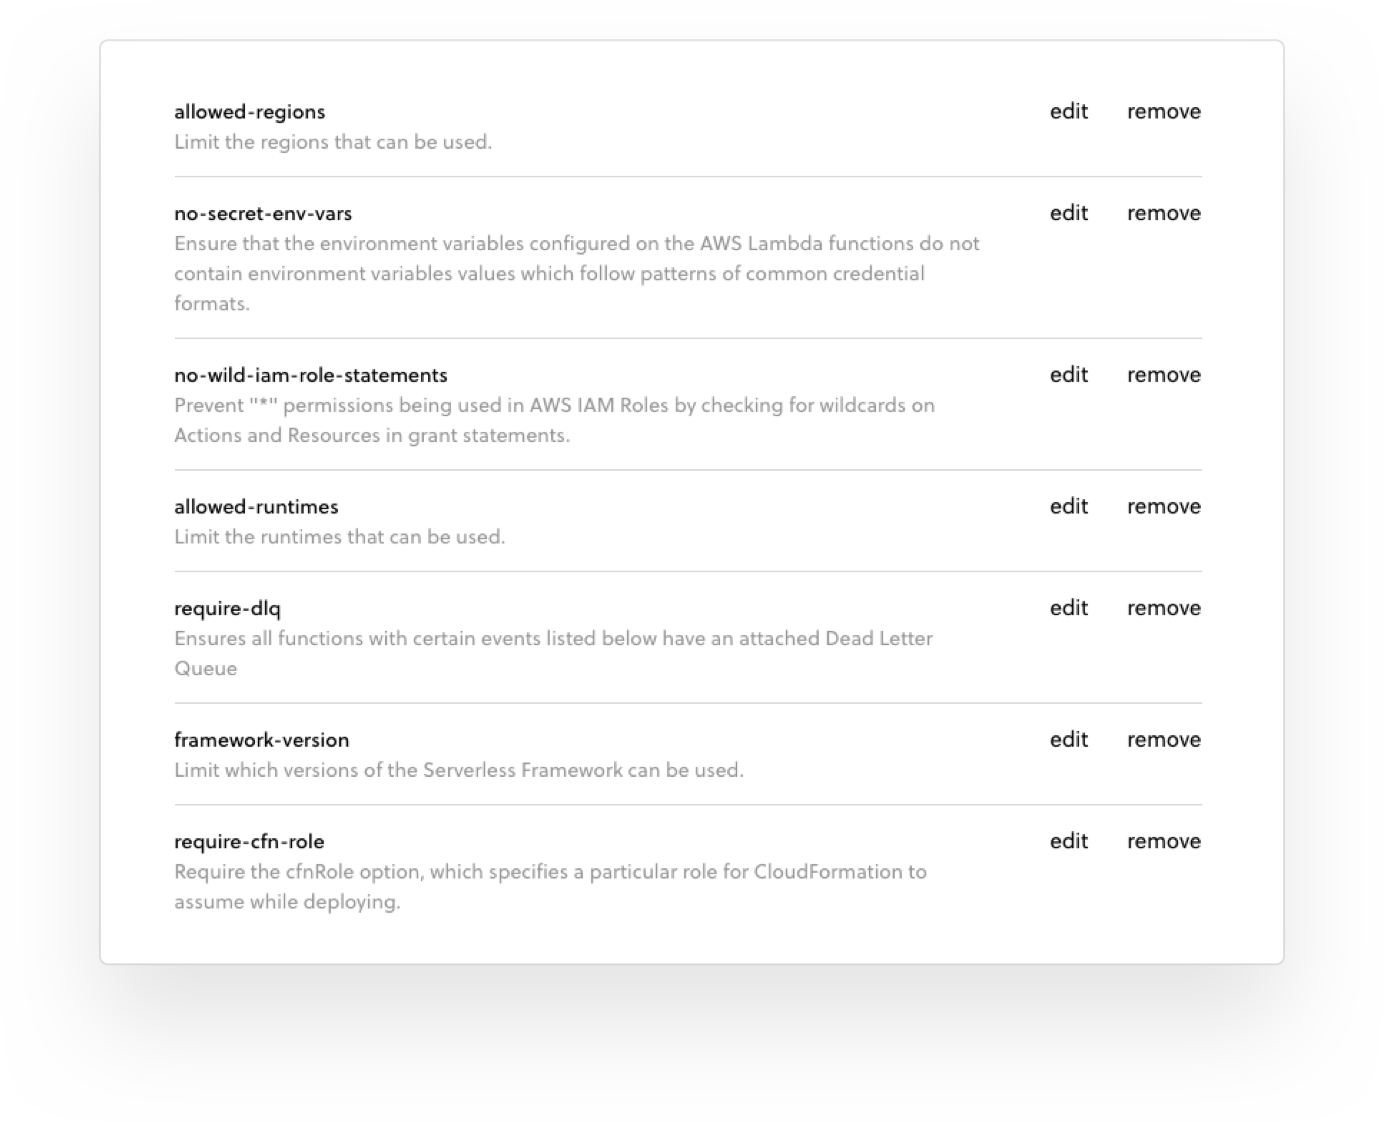
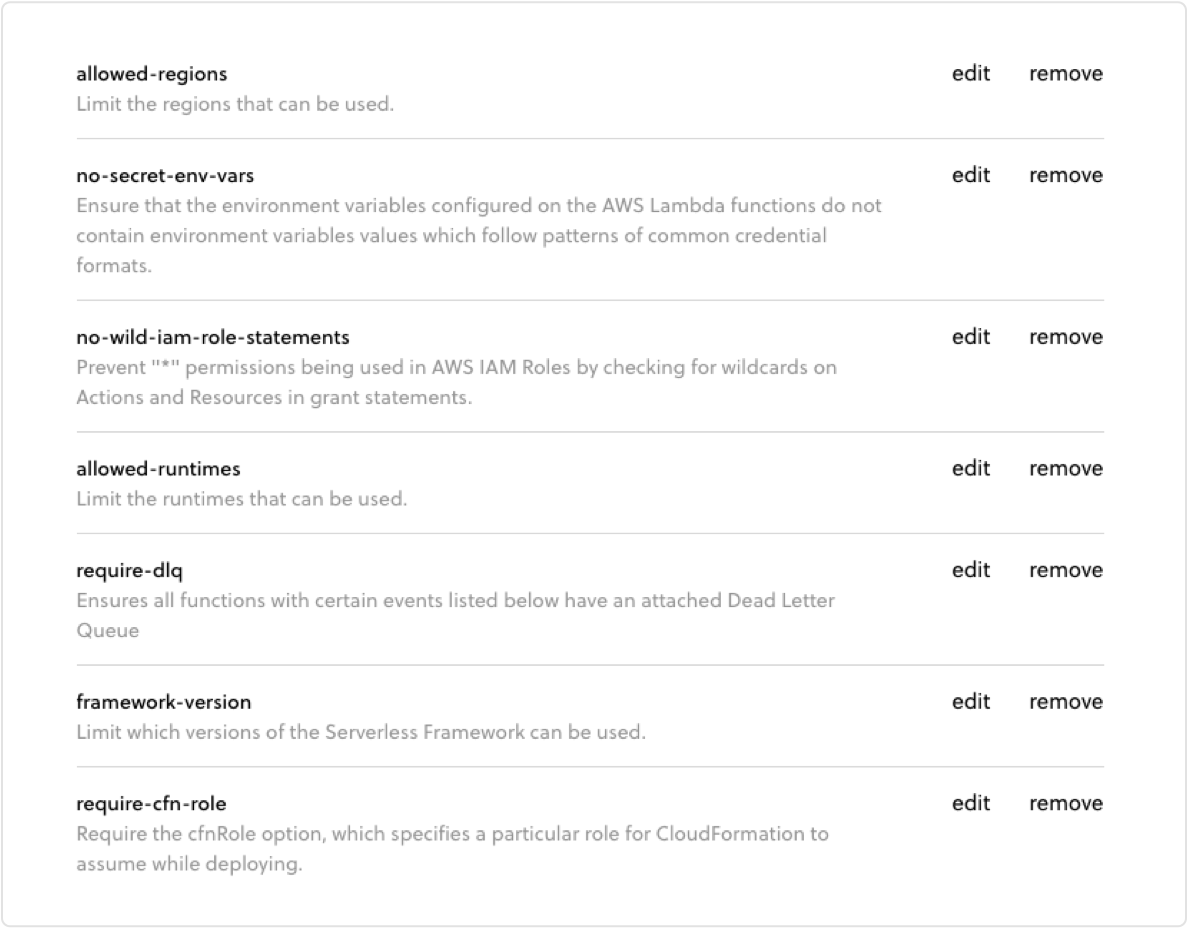
updated images and made mobile version of images full-width

diff --git a/src/components/pages/policies/IndustryStandard/index.js b/src/components/pages/policies/IndustryStandard/index.js
@@ -1,6 +1,6 @@
 import React from 'react'
 import { Flex } from 'serverless-design-system'
-import industryStandardImage from 'src/assets/images/pages/policies/industry-standard.jpg'
+import industryStandardImage from 'src/assets/images/pages/policies/industry-standard.png'
 import Content from './Content'
 import Image from '../ImageWithShadows'
 
@@ -13,7 +13,7 @@ const PoliciesIndustryStandard = props => (
     <Content />
     <Image
       src={industryStandardImage}
-      width={[300, 300, 336, 432, 500, 592]}
+      width={['100%', '100%', 336, 432, 500, 592]}
       height={[235, 235, 262, 285, 443, 463]}
     />
   </Flex>

diff --git a/src/components/pages/policies/CustomPolicies/index.js b/src/components/pages/policies/CustomPolicies/index.js
@@ -1,6 +1,6 @@
 import React from 'react'
 import { Flex } from 'serverless-design-system'
-import customPoliciesImage from 'src/assets/images/pages/policies/custom-policies.jpg'
+import customPoliciesImage from 'src/assets/images/pages/policies/custom-policies.png'
 import Content from './Content'
 import Image from '../ImageWithShadows'
 
@@ -13,7 +13,7 @@ const CustomPolicies = props => (
     <Content />
     <Image
       src={customPoliciesImage}
-      width={[300, 300, 336, 450, 520, 592]}
+      width={['100%', '100%', 336, 450, 520, 592]}
       height={[110, 110, 123, 170, 200, 217]}
     />
   </Flex>

diff --git a/src/components/pages/policies/Hero/Image.js b/src/components/pages/policies/Hero/Image.js
@@ -1,11 +1,11 @@
 import React from 'react'
 import { Background, Box } from 'serverless-design-system'
-import policiesHeroImage from 'src/assets/images/pages/policies/policies-hero.jpg'
+import policiesHeroImage from 'src/assets/images/pages/policies/policies-hero.png'
 import Image from '../ImageWithShadows'
 
 const HeroImage = props => (
   <Background
-    background='#eaeaea'
+    background={['#f7f7f7', '#f7f7f7', '#f7f7f7', '#f7f7f7', '#eaeaea']}
     width={['100%', '100%', 488, 488, 488, 592]}
     height={[235, 235, 382, 382, 488, 592]}
     style={{ borderRadius: '50%', alignSelf: 'center' }}

diff --git a/src/components/pages/policies/ZeroCode/index.js b/src/components/pages/policies/ZeroCode/index.js
@@ -1,6 +1,6 @@
 import React from 'react'
 import { Flex } from 'serverless-design-system'
-import zeroCodeImage from 'src/assets/images/pages/policies/zero-code.jpg'
+import zeroCodeImage from 'src/assets/images/pages/policies/zero-code.png'
 import Content from './Content'
 import Image from '../ImageWithShadows'
 
@@ -13,7 +13,7 @@ const CustomPolicies = props => (
     <Content />
     <Image
       src={zeroCodeImage}
-      width={[300, 300, 336, 436, 594]}
+      width={['100%', '100%', 336, 436, 594]}
       height={[306, 306, 342, 442, 603]}
     />
   </Flex>
